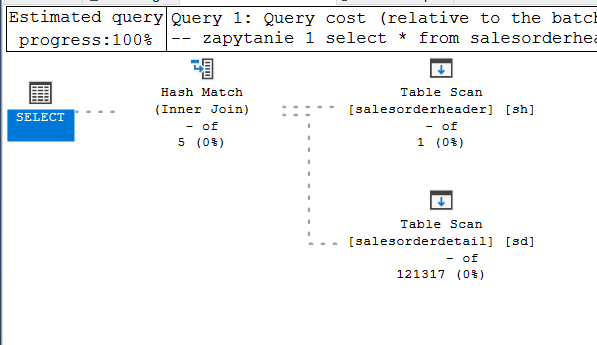
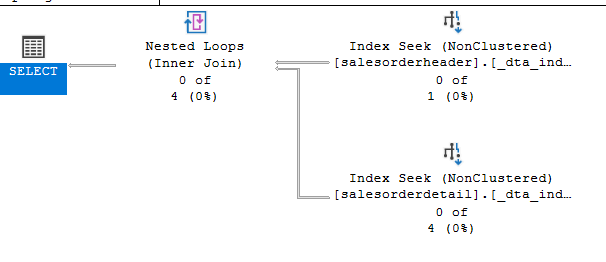
modifications in lab4 - adding optimization ideas, checking pages for different index

Changed region(s): [[0.0, 0.0, 1.0, 1.0], [0.6935, 0.855, 0.7839, 0.8855]]

diff --git a/Lab_4/lab4-index-opt-1.md b/Lab_4/lab4-index-opt-1.md
@@ -145,8 +145,16 @@ Teraz wykonaj poszczególne zapytania (najlepiej każde analizuj oddzielnie). Co
 
 ### Zapytanie 1.
 
-Zapytanie 1 nie zwraca żadnych wyników przez filtrację po dacie. Żaden rekord nie odpowiada kryteriom ale dalej 
-możemy zbudować plan wykonania zapytania.
+```sql
+-- zapytanie 1
+select *
+from salesorderheader sh
+inner join salesorderdetail sd on sh.salesorderid = sd.salesorderid
+where orderdate = '2008-06-01 00:00:00.000'
+go
+```
+
+Zapytanie 1 nie zwraca żadnych wyników przez filtrację po dacie. Celem zapytania jest zwrócenie wszystkich danych o sprzedaży z tabeli salesorderheader i salesorderdetail o sprecyzowanej wartości pola daty - `2008-06-01 00:00:00.000`, jednak żaden rekord nie odpowiada kryteriom. Ale dalej możemy zbudować plan wykonania zapytania. Widzimy, że pomimo braku odpowiednich rekordów zapytanie dalej wykonuje pełny skan tabeli salesorderdetail (121317 elementów)!
 
 *Statystyki*
 
@@ -156,12 +164,25 @@ możemy zbudować plan wykonania zapytania.
 
 ![](img/ex1/query1-2.png)
 
+Potencjalną optymalizacją takiego zapytania byłoby stworzenie indeksu na tabeli salesorderdetail lub nawet na obu tabelach by uniknąć skanów. Oba indeksy powinny zawierać klucz użyty w operacji join - `salesorderid`
+
 ### Zapytanie 2.
+
+```sql
+-- zapytanie 2
+select orderdate, productid, sum(orderqty) as orderqty,
+       sum(unitpricediscount) as unitpricediscount, sum(linetotal)
+from salesorderheader sh
+inner join salesorderdetail sd on sh.salesorderid = sd.salesorderid
+group by orderdate, productid
+having sum(orderqty) >= 100
+go
+```
 
 Zapytanie drugie wyciąga datę zamówienia, id produktu, liczbę zamówionych produktów, zniżkę i zsumowaną wartość linetotal.
 Zapytanie jest wykonane z joinem, który łączy je tabelą salesorderdetail by pogrupować zamówienia według daty oraz id produktu, a także by dostarczyć informacji o liczbie zamówionych jednostek.
 
-Czas wykonania zapytania jest dość długi, bo wynosi 30 sekund.
+Czas wykonania zapytania jest dość długi, bo wynosi 30 sekund. Analizując plan zapytania możemy zobaczyć dwa pełne skany tabel, które przyczyniają się do kosztowności zapytania.
 
 *Wynik zapytania*
 
@@ -175,12 +196,23 @@ Czas wykonania zapytania jest dość długi, bo wynosi 30 sekund.
 
 ![](img/ex1/query2-2.png)
 
+Takie zapytanie można by zoptymalizować indeksem na salesorderheader. Ważne by taki indeks zawierał pozycje użyte w zapytaniu - `orderdate`, `productid`, `orderqty`, `unitpricediscount`, `linetotal`
+
 ### Zapytanie 3.
 
-Kolejne zapytanie również filtruje datę tak, że w wyniku nie dostajemy żadnych rekordów. Wynik, jest podobny do wyniku z zapytania 
-pierwszego.
+```sql
+-- zapytanie 3
+select salesordernumber, purchaseordernumber, duedate, shipdate
+from salesorderheader sh
+inner join salesorderdetail sd on sh.salesorderid = sd.salesorderid
+where orderdate in ('2008-06-01','2008-06-02', '2008-06-03', '2008-06-04', '2008-06-05')
+go
+```
 
-Ma bardzo prosty plan wykonania:
+Kolejne zapytanie również filtruje datę tak, że w wyniku nie dostajemy żadnych rekordów. Wynik jest podobny do wyniku z zapytania 
+pierwszego. Tym razem dostępne 4 daty zamówienia oraz zwracamy tylko numer zamówienia i kupna, oraz pola duedate i shipdate
+
+Ma bardzo prosty plan wykonania, jednak tak jak w 1 zapytaniu wykonuje ono kosztowny skan całej tabel:
 
 *Statystyki*
 
@@ -190,7 +222,19 @@ Ma bardzo prosty plan wykonania:
 
 ![](img/ex1/query3-2.png)
 
+Przez analogię do zapytania pierwszego moglibyśmy zoptymalizować zapytanie dodając do niego indeks na obu tabelach jednak należy uważać by uwzględnił on użyte kolumny dla salesorderheader - `salesordernumber`, `purchaseordernumber`, `duedate`, `shipdate`
+
 ### Zapytanie 4.
+
+```sql
+-- zapytanie 4
+select sh.salesorderid, salesordernumber, purchaseordernumber, duedate, shipdate
+from salesorderheader sh
+inner join salesorderdetail sd on sh.salesorderid = sd.salesorderid
+where carriertrackingnumber in ('ef67-4713-bd', '6c08-4c4c-b8')
+order by sh.salesorderid
+go
+```
 
 Zapytanie 4 jest podobne do 3. Różnice między nimi są takie, że 4 nie filtruje po dacie, a zamist tego wyświetla rekordy, które odpowiadają numerom śledzenia (carriertrackingnumber).
 Kolejną różnicą jest sortowanie po nowym, pierwszym wierszu tabeli czyli id zamówienia.
@@ -209,7 +253,9 @@ Plan wykonania zapytania wygląda następująco
 
 ![](img/ex1/query4-2.png)
 
-> SSMS sam sugeruje dodanie indeksów nieklastrowych. Plany zapytań wyglądają czasochłonnie i można by je w ten sposób zoptymalizować
+To zapytanie mogłoby zostać zoptymalizowane przez dodanie indeksów które trzymają już posortowane wartości `salesorderid`. Pozwoliłoby to na uniknięcie sortowania widocznego na planie wykonania zapytania.
+
+> SSMS sam sugeruje dodanie indeksów nieklastrowych. Plany zapytań zawierają dużo pełnych skanów tabel i sortowań. Takie indeksy mogą pozwolić na optymalizację. W zadaniu drugim zobaczymy jak wyglądają zaporoponowane indeksy i czy pokrywają się z naszymi pomysłami.
 
 ---
 
@@ -227,7 +273,7 @@ Sprawdź zakładkę **Tuning Options**, co tam można skonfigurować?
 
 ## ![](img/ex2/1.png)
 
-> Wyniki: W zakładce tuning options możemy ustawić struktury PDS, strategię partycji i te struktury PDS któe mają być zachowane. Struktury fizyczne które są dostępne, to indeksy, ich widoki, indeksy bezklastrowe, filtrowane oraz typu columnstore.
+> Wyniki: W zakładce tuning options możemy ustawić struktury PDS, strategię partycji i te struktury PDS któe mają być zachowane. Struktury fizyczne które są dostępne, to indeksy, ich widoki, indeksy bezklastrowe, filtrowane oraz typu columnstore. Zaznaczona konfiguracja używa indeksów jako fizycznych struktur, nie używa partycjonowania oraz zachowuje struktury fizyczne.
 
 ---
 
@@ -321,7 +367,8 @@ go
 
 
 
-CREATE NONCLUSTERED INDEX [_dta_index_salesorderheader_8_901578250__K3_K1_2_4_5_6_7_8_9_10_11_12_13_14_15_16_17_18_19_20_21_22_23_24_25_26] ON [dbo].[salesorderheader]
+CREATE NONCLUSTERED INDEX [_dta_index_salesorderheader_8_901578250__K3_K1_2_4_5_6_7_8_9_10_11_12_13_14_15_16_17_18_19_20_21_22_23_24_25_26] 
+       ON [dbo].[salesorderheader]
 ([OrderDate] ASC,[SalesOrderID] ASC)
 INCLUDE(
        [RevisionNumber],
@@ -483,6 +530,8 @@ CREATE NONCLUSTERED INDEX [_dta_index_salesorderheader_8_901578250__K1_K3] ON [d
 WITH (SORT_IN_TEMPDB = OFF, DROP_EXISTING = OFF, ONLINE = OFF) ON [PRIMARY]
 go
 ```
+
+Zaproponowane indeksy zgadzają się z naszymi propozycjami z zadania 1
 
 ---
 
@@ -700,7 +749,7 @@ Czym się różni przebudowa indeksu od reorganizacji?
 
 ---
 
-> Wyniki: Reorganizacja przeprowadza fragmentację indeksu w miejscu. Działa na istniejącej strukturze. Przebudowa usuwa indeks i buduje go od zera.
+> Wyniki: Reorganizacja przeprowadza fragmentację indeksu w miejscu. Działa na istniejącej strukturze. Przebudowa usuwa indeks i buduje go od zera. Można wywnioskować, że przebudowa jest operacją którą powinniśmy wykonywać w krytycznych sytuacjach w których samo wykonanie reorganizacji nie wystarczy by uzyskać poprawienie jakości działania indeksu. W ćwiczeniu użyliśmy przebudowy kiedy wartość fragmentacji i wykorzystania strony były gorsze niż kiedy użyiśmy reorganizacji.
 
 ---
 
@@ -799,11 +848,13 @@ dbcc ind ('adventureworks2017', 'person.address', 1)
 
 ![](img/ex4/1.png)
 
+![](img/ex4/1-2.png)
+
 Zapisz sobie kilka różnych typów stron, dla różnych indeksów:
 
 ---
 
-> Wyniki: Zapisaliśmy 3 strony: 13720, 12272, 8089. Widoczne w dalszej części
+> Wyniki: Dla indeksu 1 zapisaliśmy 2 strony: 13720, 8089 o typach odpowiednio 10 i 3. Widoczne w dalszej części
 
 ---
 
@@ -829,18 +880,27 @@ Zapisz obserwacje ze stron. Co ciekawego udało się zaobserwować?
 
 ![](img/ex4/3.png)
 
-
-- Wykonując komendę sql dla strony `12272` Dostaliśmy dodatkowo tabelę!
-
-![](img/ex4/4.png)
-
-![](img/ex4/5.png)
+W wyniku dostajemy identyfikator stron oraz informacje o buforze i nagłówku.
 
 - Dla strony `8089` dostajemy dużo mniej obszerną informację niż dla 13720. Brakuje na przykład wypisywanych informacji o slotach
 
 ![](img/ex4/6.png)
 
-> Informacje stron ewidentnie różnią się w zależności od typu. Dla strony `13720` pojawiły się kolumny danych i opis slotów i kolumn a na dwóch pozostałych opis bufora i nagłówka strony.
+Informacje stron ewidentnie różnią się w zależności od typu. Dla strony `13720` pojawiły się kolumny danych i opis slotów i kolumn a na dwóch pozostałych opis bufora i nagłówka strony.
+
+Sprawdziliśmy jeszcze stronę dla indeksu 2. Strona o numerze `5872` i typie 2.
+
+```sql
+dbcc ind ('adventureworks2017', 'person.address', 2)
+     
+dbcc page('adventureworks2017', 1, 5872, 3);
+```
+
+![](img/ex4/7.png)
+
+![](img/ex4/8.png)
+
+w odróżnieniu od dwóch poprzednich typów stron tutaj dostajemy tabelkę. Tabela opisuje indeks - wskaźniki do odpowiednich wierszy w tabeli, na której indeks jest utworzony. Strona 5872 jest właśnie taką składową indeksu 2.
 
 ---
 
